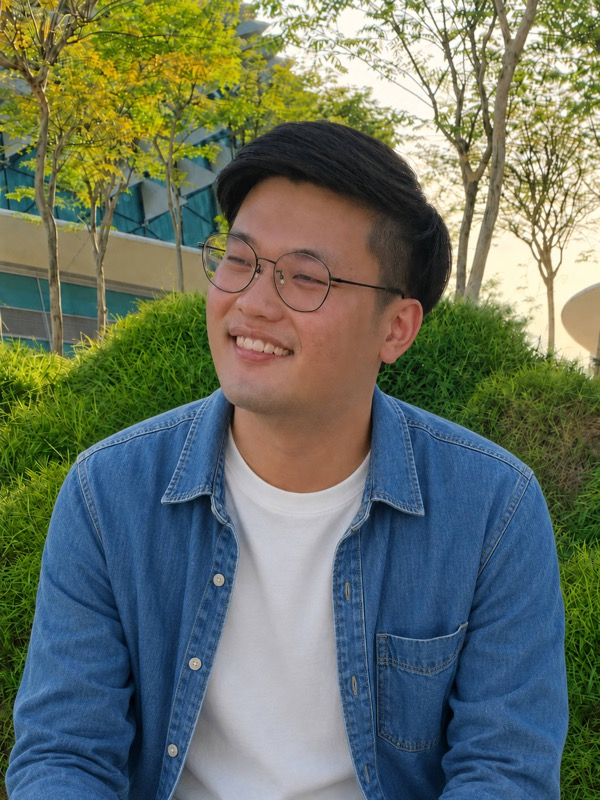
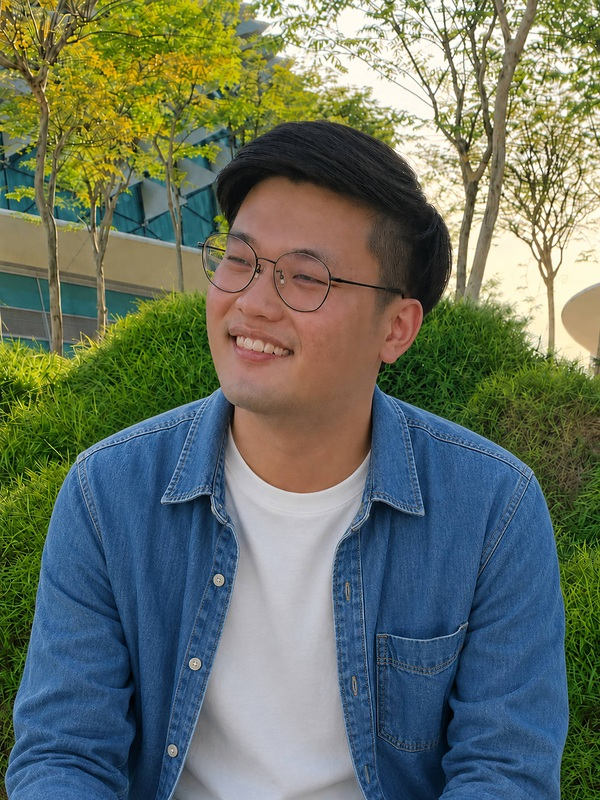
Update site navigation and layout

diff --git a/src/router/index.ts b/src/router/index.ts
@@ -10,16 +10,24 @@ const router = createRouter({
       meta: { title: 'Jin — Applied innovation, shaping digital and human systems' },
     },
     {
-      path: '/workbench',
-      name: 'workbench',
+      path: '/tools',
+      name: 'tools',
       component: () => import('@/views/WorkbenchView.vue'),
-      meta: { title: 'Workbench — Jin' },
+      meta: { title: 'Tools — Jin' },
+    },
+    {
+      path: '/tools/:slug',
+      name: 'project',
+      component: () => import('@/views/ProjectView.vue'),
+      meta: { title: 'Tools — Jin' },
+    },
+    {
+      path: '/workbench',
+      redirect: '/tools',
     },
     {
       path: '/workbench/:slug',
-      name: 'project',
-      component: () => import('@/views/ProjectView.vue'),
-      meta: { title: 'Workbench — Jin' },
+      redirect: (to) => `/tools/${to.params.slug}`,
     },
     {
       path: '/writing',

diff --git a/src/views/WorkbenchView.vue b/src/views/WorkbenchView.vue
@@ -21,11 +21,11 @@ const counts = computed(() => {
 <template>
   <div class="shell">
     <header class="page-head">
-      <h1>Things built, grouped by why.</h1>
+      <h1>Projects, grouped by why I built them.</h1>
       <p class="lede">
-        {{ counts.total }} projects across five intents, {{ counts.active }}
-        still running. Most are the same move repeated: notice a friction,
-        build the small system around it.
+        {{ counts.total }} projects in five areas, {{ counts.active }} still
+        active. Most started the same way: I noticed a friction and built a
+        small system to remove it.
       </p>
     </header>
 
@@ -43,7 +43,7 @@ const counts = computed(() => {
 
         <ul class="rows">
           <li v-for="p in g.items" :key="p.slug">
-            <RouterLink :to="`/workbench/${p.slug}`" class="row">
+            <RouterLink :to="`/tools/${p.slug}`" class="row">
               <span class="row-name">{{ p.name }}</span>
               <span class="row-intent">{{ p.intent }}</span>
               <span class="row-meta">

diff --git a/src/views/NotFoundView.vue b/src/views/NotFoundView.vue
@@ -3,14 +3,13 @@
 <template>
   <div class="shell shell--reading nf">
     <p class="eyebrow">404</p>
-    <h1>That thread does not connect to anything.</h1>
+    <h1>This page doesn't exist.</h1>
     <p class="lede">
-      The page you asked for is not on the map. Nothing here is broken on
-      purpose; the link just leads nowhere.
+      The link you followed leads nowhere. Try one of these instead.
     </p>
     <nav class="ways">
-      <RouterLink to="/" class="link">The map</RouterLink>
-      <RouterLink to="/workbench" class="link">Workbench</RouterLink>
+      <RouterLink to="/" class="link">Home</RouterLink>
+      <RouterLink to="/tools" class="link">Tools</RouterLink>
       <RouterLink to="/writing" class="link">Writing</RouterLink>
     </nav>
   </div>

diff --git a/src/views/HomeView.vue b/src/views/HomeView.vue
@@ -71,7 +71,7 @@ const latest = listPosts().slice(0, 3)
                 /img/jin-portrait-800.jpg   800w,
                 /img/jin-portrait-1400.jpg 1400w
               "
-              sizes="(min-width: 760px) 20rem, calc(100vw - 2.5rem)"
+              sizes="(min-width: 760px) 20.5rem, calc(100vw - 2.5rem)"
               alt="Jin outdoors, smiling in a denim shirt."
             />
           </figure>
@@ -179,7 +179,7 @@ const latest = listPosts().slice(0, 3)
   list-style: none;
   margin: 0;
   padding: 0;
-  max-width: 54ch;
+  max-width: 62ch;
   display: flex;
   flex-direction: column;
 }
@@ -270,7 +270,7 @@ const latest = listPosts().slice(0, 3)
   background: var(--color-moss-deep);
   border-radius: var(--radius-md);
   overflow: hidden;
-  width: min(100%, 18rem);
+  width: min(100%, 20.5rem);
   align-self: start;
 }
 .hero-portrait::after {
@@ -325,7 +325,7 @@ const latest = listPosts().slice(0, 3)
 
 @media (min-width: 760px) {
   .hero-body {
-    grid-template-columns: minmax(0, 1fr) minmax(14rem, 18rem);
+    grid-template-columns: minmax(0, 1fr) minmax(15rem, 20.5rem);
     gap: clamp(2.5rem, 6vw, 4.5rem);
   }
   .hero-portrait {

diff --git a/src/views/ProjectView.vue b/src/views/ProjectView.vue
@@ -22,7 +22,7 @@ const siblings = computed(() =>
 
 <template>
   <div class="shell shell--reading" v-if="project">
-    <RouterLink to="/workbench" class="back">← Workbench</RouterLink>
+    <RouterLink to="/tools" class="back">← Tools</RouterLink>
 
     <header class="head">
       <p class="eyebrow">
@@ -82,7 +82,7 @@ const siblings = computed(() =>
       </p>
       <ul>
         <li v-for="s in siblings" :key="s.slug">
-          <RouterLink :to="`/workbench/${s.slug}`" class="sib">
+          <RouterLink :to="`/tools/${s.slug}`" class="sib">
             <span>{{ s.name }}</span>
             <span class="sib-intent">{{ s.intent }}</span>
           </RouterLink>
@@ -94,8 +94,8 @@ const siblings = computed(() =>
   <div class="shell shell--reading" v-else>
     <h1>No such project</h1>
     <p class="lede">
-      That project is not on the workbench.
-      <RouterLink to="/workbench" class="link">Back to all work</RouterLink>.
+      That project does not exist.
+      <RouterLink to="/tools" class="link">Back to all tools</RouterLink>.
     </p>
   </div>
 </template>

diff --git a/src/views/JourneyView.vue b/src/views/JourneyView.vue
@@ -6,11 +6,10 @@ import { threadById } from '@/data/threads'
 <template>
   <div class="shell shell--reading">
     <header class="page-head">
-      <h1>Less a ladder. More the terrain worked in.</h1>
+      <h1>How the work has changed over time.</h1>
       <p class="lede">
-        The dates matter less than the through-line: noticing friction in
-        systems, technical and human, and building or facilitating the thing
-        that removes it.
+        The dates matter less than the pattern: spotting friction in systems,
+        technical and human, then building or facilitating what removes it.
       </p>
     </header>
 

diff --git a/src/views/ContactView.vue b/src/views/ContactView.vue
@@ -26,10 +26,10 @@ const channels = [
 <template>
   <div class="shell shell--reading">
     <header class="page-head">
-      <h1>Three plain ways through.</h1>
+      <h1>Get in touch.</h1>
       <p class="lede">
-        If you are weighing whether to work together, email is the honest
-        channel. Tell me the friction you are looking at.
+        If something here resonates, reach out. Always glad to start a
+        conversation, no agenda needed.
       </p>
     </header>
 

diff --git a/src/views/WritingView.vue b/src/views/WritingView.vue
@@ -18,10 +18,10 @@ const shown = computed(() =>
     <div class="banner" aria-hidden="true"></div>
 
     <header class="page-head">
-      <h1>Notes, mostly about systems that have to keep working.</h1>
+      <h1>Notes on building systems that have to keep working.</h1>
       <p class="lede">
-        Closer to a working notebook than a blog. Show the workings, link the
-        receipts, no polish tax.
+        Working notes, not polished essays. I show how things were built, and
+        why.
       </p>
     </header>
 

diff --git a/src/views/ShelfView.vue b/src/views/ShelfView.vue
@@ -25,10 +25,9 @@ const groups = computed(() =>
 <template>
   <div class="shell shell--reading">
     <header class="page-head">
-      <h1>What is shaping the thinking.</h1>
+      <h1>What has given me new perspectives.</h1>
       <p class="lede">
-        The most personal page here. Not a reading list to look smart, the
-        few things the work actually leans on.
+        A short list of things that have changed how I think.
       </p>
     </header>
 

diff --git a/src/components/ConstellationMap.vue b/src/components/ConstellationMap.vue
@@ -142,10 +142,10 @@ function labelPlacement(x: number, y: number): 'top' | 'right' | 'bottom' | 'lef
 
       <div class="trail-grid" :key="selected">
         <div v-if="trail.projects.length" class="trail-col">
-          <p class="col-title">In the Workbench</p>
+          <p class="col-title">Tools</p>
           <ul>
             <li v-for="p in trail.projects" :key="p.slug">
-              <RouterLink :to="`/workbench/${p.slug}`" class="trail-link">
+              <RouterLink :to="`/tools/${p.slug}`" class="trail-link">
                 {{ p.name }}
               </RouterLink>
               <span class="status" :class="`status--${p.status}`">{{

diff --git a/src/components/SiteFooter.vue b/src/components/SiteFooter.vue
@@ -8,9 +8,9 @@ const year = new Date().getFullYear()
     <div class="motif" aria-hidden="true"></div>
     <div class="inner">
       <div class="lead">
-        <p class="line">A working map of what I build, and why.</p>
+        <p class="line">Projects, writing, and the thinking behind them.</p>
         <p class="sub">
-          {{ site.formalName }} · the threads, and the work behind each.
+          {{ site.formalName }} · built and written over the years.
         </p>
       </div>
       <nav class="links" aria-label="Elsewhere">

diff --git a/src/data/shelf.ts b/src/data/shelf.ts
@@ -27,7 +27,7 @@ export const shelf: ShelfItem[] = [
   {
     kind: 'person',
     title: 'Simon Willison',
-    note: 'The bar for writing usefully in public: show the work, link the receipts, no polish tax.',
+    note: 'The bar for writing usefully in public: show the work, link the sources, skip the polish.',
   },
   {
     kind: 'person',